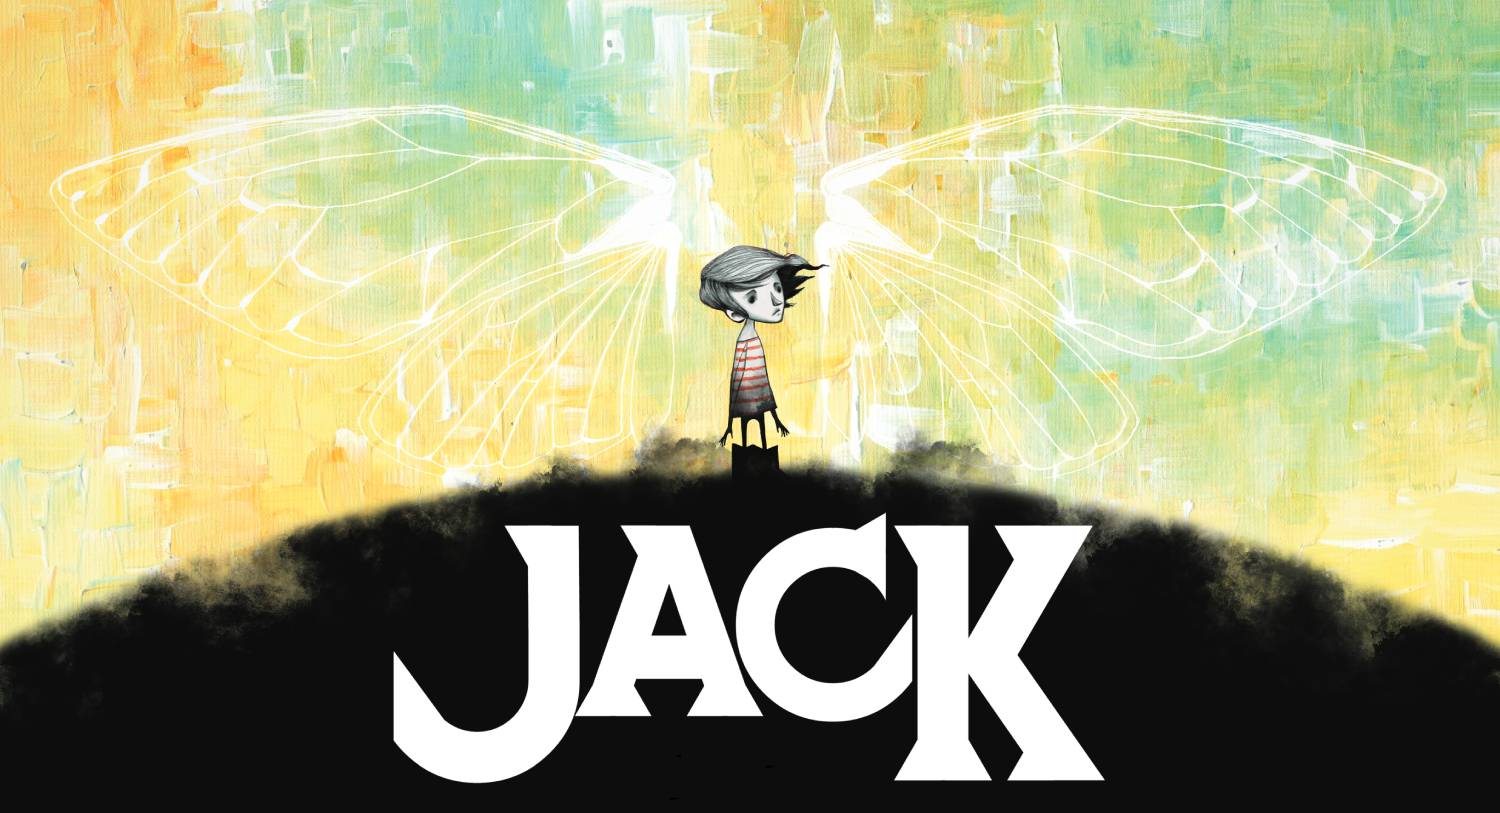
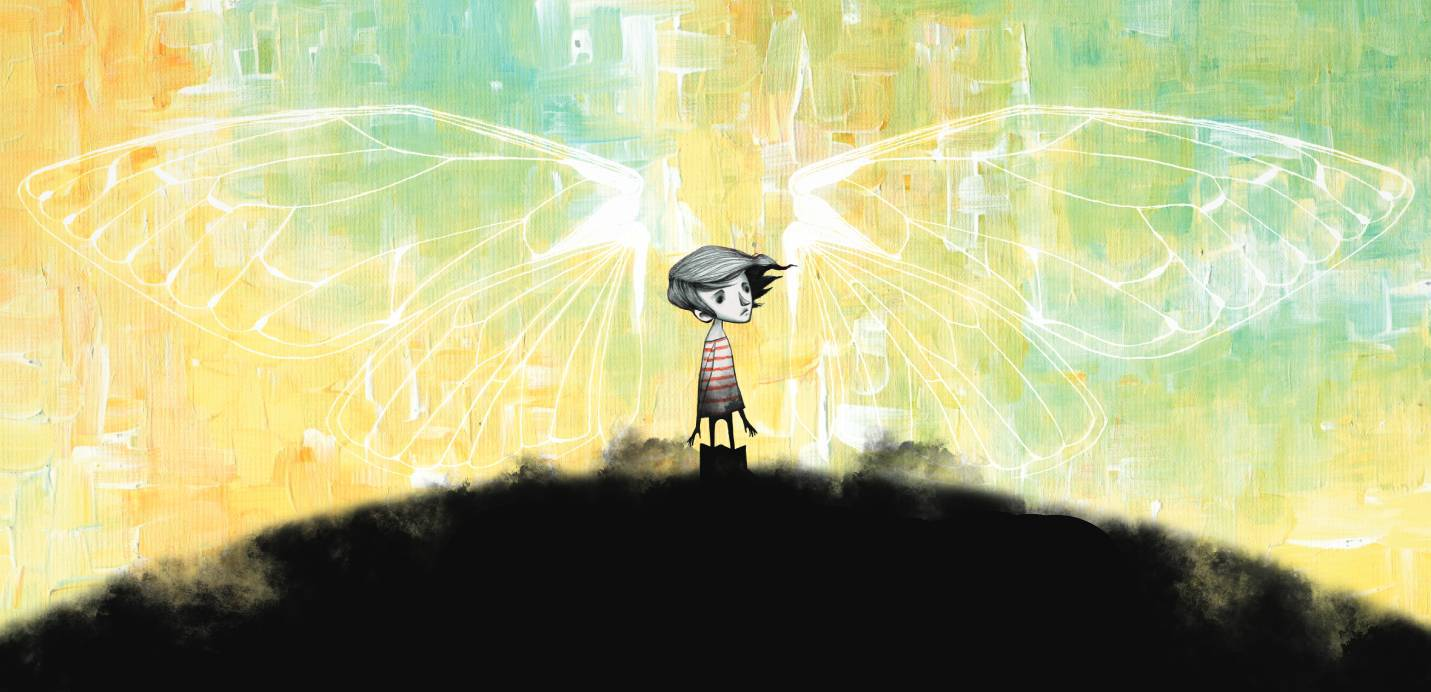
adding spcial media and adjusted image

diff --git a/index.html b/index.html
@@ -2,25 +2,119 @@
 <html>
     <head>
         <title>Jack Game | Orangutan matter.com</title>
-        <style>
+        <link rel="stylesheet" href="https://cdnjs.cloudflare.com/ajax/libs/font-awesome/5.11.2/css/all.min.css" />
+        <link rel="stylesheet" href="https://stackpath.bootstrapcdn.com/bootstrap/4.3.1/css/bootstrap.min.css" integrity="sha384-ggOyR0iXCbMQv3Xipma34MD+dH/1fQ784/j6cY/iJTQUOhcWr7x9JvoRxT2MZw1T" crossorigin="anonymous">        <style>
         body{
             background-color: #0c0d0c;
         }
-        a {
-            color: white;
+        a:hover{
+            color: inherit;
+            text-decoration: none;
+        }
+        #logo {
+            display: block;
+        }
+        h1, h2 {
+            font-size: 2rem;
+        }
+        .small-text {
+            font-size: 1rem;
+        }
+        .bg{
+            background-size: cover;
+            /*background-image: url(assets/Jack-game.jpg);*/
+            background-position: top center;
+            background-repeat: no-repeat;
+            display: flex;
+        }
+        .white {
+            color: #FFF;
+        }
+        .black {
+            color:#0c0d0c;
+        }
+        ul.social-links {
+            list-style: none;
+            padding: 0;
+        }
+        .social-links li {
+            display: inline-block;
+            margin: 1rem;
+        }
+        .social-links a {
+            text-decoration: none;
+        }
+        .social-links i {
+            font-size: 2rem;
+        }
+        .content {
+            min-height: 500px;
+        }
+        .fixed-parallax {
+            position: relative;
+            height: auto;
+            min-height: 60vh;
+            background-position: center;
+            background-repeat: no-repeat;
+            background-size: cover;
+            background-size: 100%;
+        }
+        @media (min-width: 768px) {
+            .fixed-parallax {
+                background-position: center top;
+                background-attachment: fixed;
+                height: 150vh;
+            }
+        }
+        .text-black {
+            background-image: url(assets/jack-text-black.png);
+        }
+        .text-white {
+            background-image: url(assets/jack-text-white.png);
+        }
+        .cicada {
+            background-image: url(assets/cicada.png);
+
+        }
+        .u-padding-top-bottom-20 {
+            padding-top: 20px;
+            padding-bottom: 20px;
         }
         </style>
     </head>
     <body>
-        <h1>Jack Game</h1>
-        <img src="assets/Jack-game.jpg" alt="Jack game poster little boy looking for his purpose in this life" width="100%"/>
-        <p>Social media: </p>
-        <ul>
-            <li>Twitter <a href="https://twitter.com/hashtag/jackgame2020?lang=en">#jackGame2020</a></li>
-            <li>Facebook <a href="https://www.facebook.com/jackgame2020">@jackgame2020</a></li>
-            <li>Instagram <a href="https://www.instagram.com/jackgame2020/">@jackgame2020</a></li>
-            <li>Youtube <a href="https://www.youtube.com/channel/UCzr5pM39JEKz_H55ZKpUseg/featured">@jackgame2020</a></li>
-            <li>Email <a href="mailto:jack@orangutanmatter.com">jack@orangutanmatter.com</a></li>
-        </ul>
+        <header>
+            <div class="container-fluid">
+                <div class="fixed-parallax cicada"></div>
+            </div>
+        </header>
+        <section>
+            <div class="container">
+                <div class="row u-padding-top-bottom-20 ">
+                    <div class="col-sm-12 col-md-8">
+                        <a id="logo" href="/" aria-label="jack game logo">
+                            <h1 class="white">Jack <br><span class="small-text">by Orangutanmatter games</span></h1>
+                        </a>
+                    </div>
+                    <div class="col-sm-12 col-md-4">
+                        <h2 class="white">#JackGame2020</h2>
+                        <ul class="social-links">
+                            <li><a class="white" href="https://twitter.com/hashtag/jackgame2020?lang=en" aria-label="#jackGame2020"><i class="white fab fa-twitter" aria-hidden="true"></i></a></li>
+                            <li><a class="white" href="https://www.facebook.com/jackgame2020" aria-label="@jackgame2020"><i class="white fab fa-facebook" aria-hidden="true"></i></a></li>
+                            <li><a class="white" href="https://www.instagram.com/jackgame2020/" aria-label="@jackgame2020"><i class="white fab fab fa-instagram" aria-hidden="true"></i></a></li>
+                            <li><a class="white" href="https://www.youtube.com/channel/UCzr5pM39JEKz_H55ZKpUseg/featured" aria-label="@jackgame2020"><i class="white fab fa-youtube" aria-hidden="true"></i></a></li>
+                            <li><a class="white" href="mailto:jack@orangutanmatter.com" aria-label="jack@orangutanmatter.com"><i class="white far fa-envelope-open" aria-hidden="true"></i></a></li>
+                        </ul>
+                    </div>
+                </div>
+            </div>
+        </section>
+        <section class="bg content">
+            <div class="container-fluid">
+                <img src="assets/Jack-game.jpg" alt="jack game poster" width="100%" />
+                <img src="assets/jack-text-white.png" alt="jack white text"  width="100%" />
+
+            </div>
+        </section>
     </body>
 </html>
